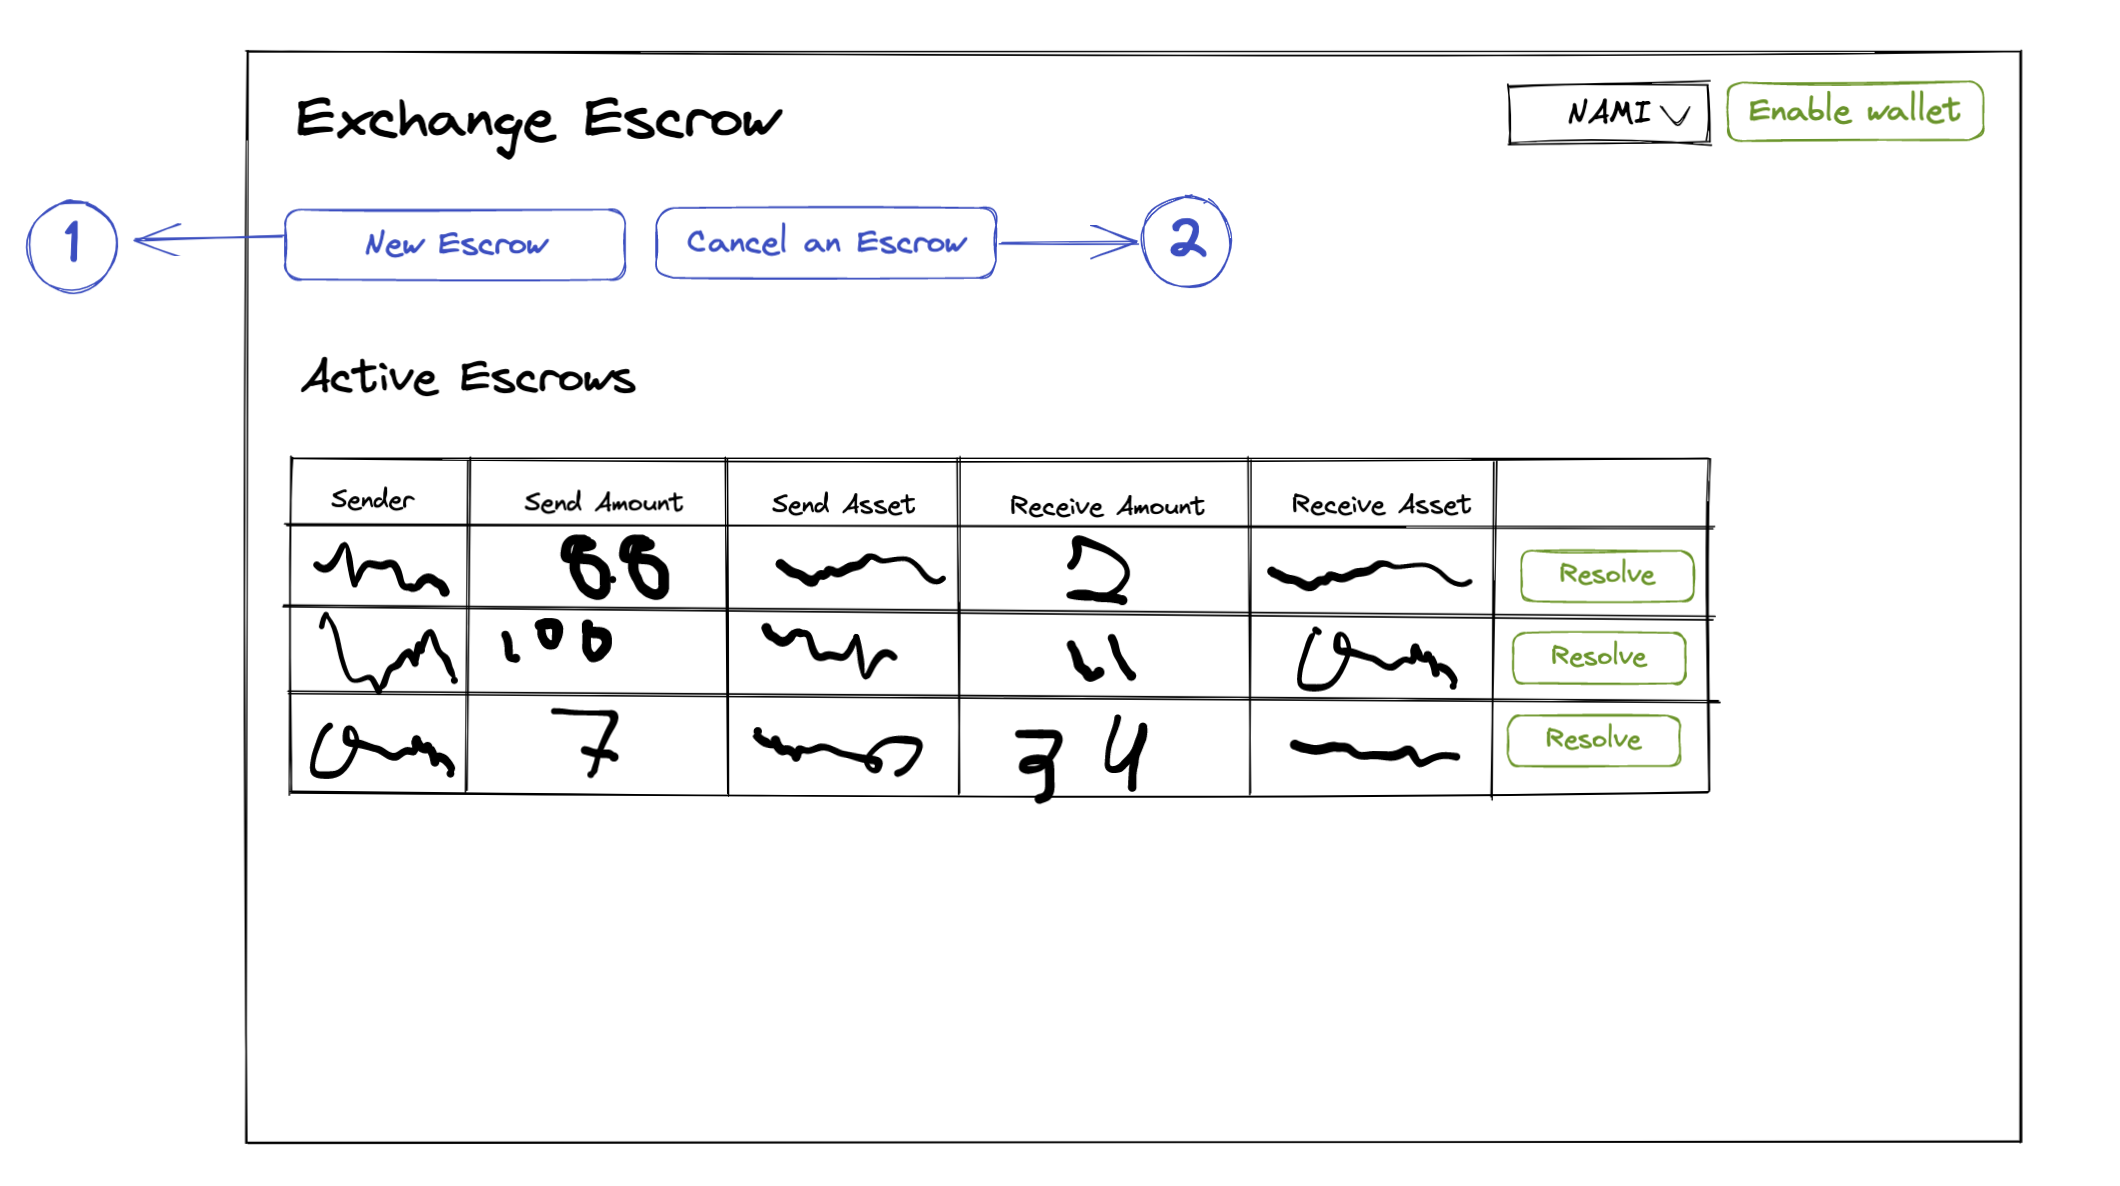
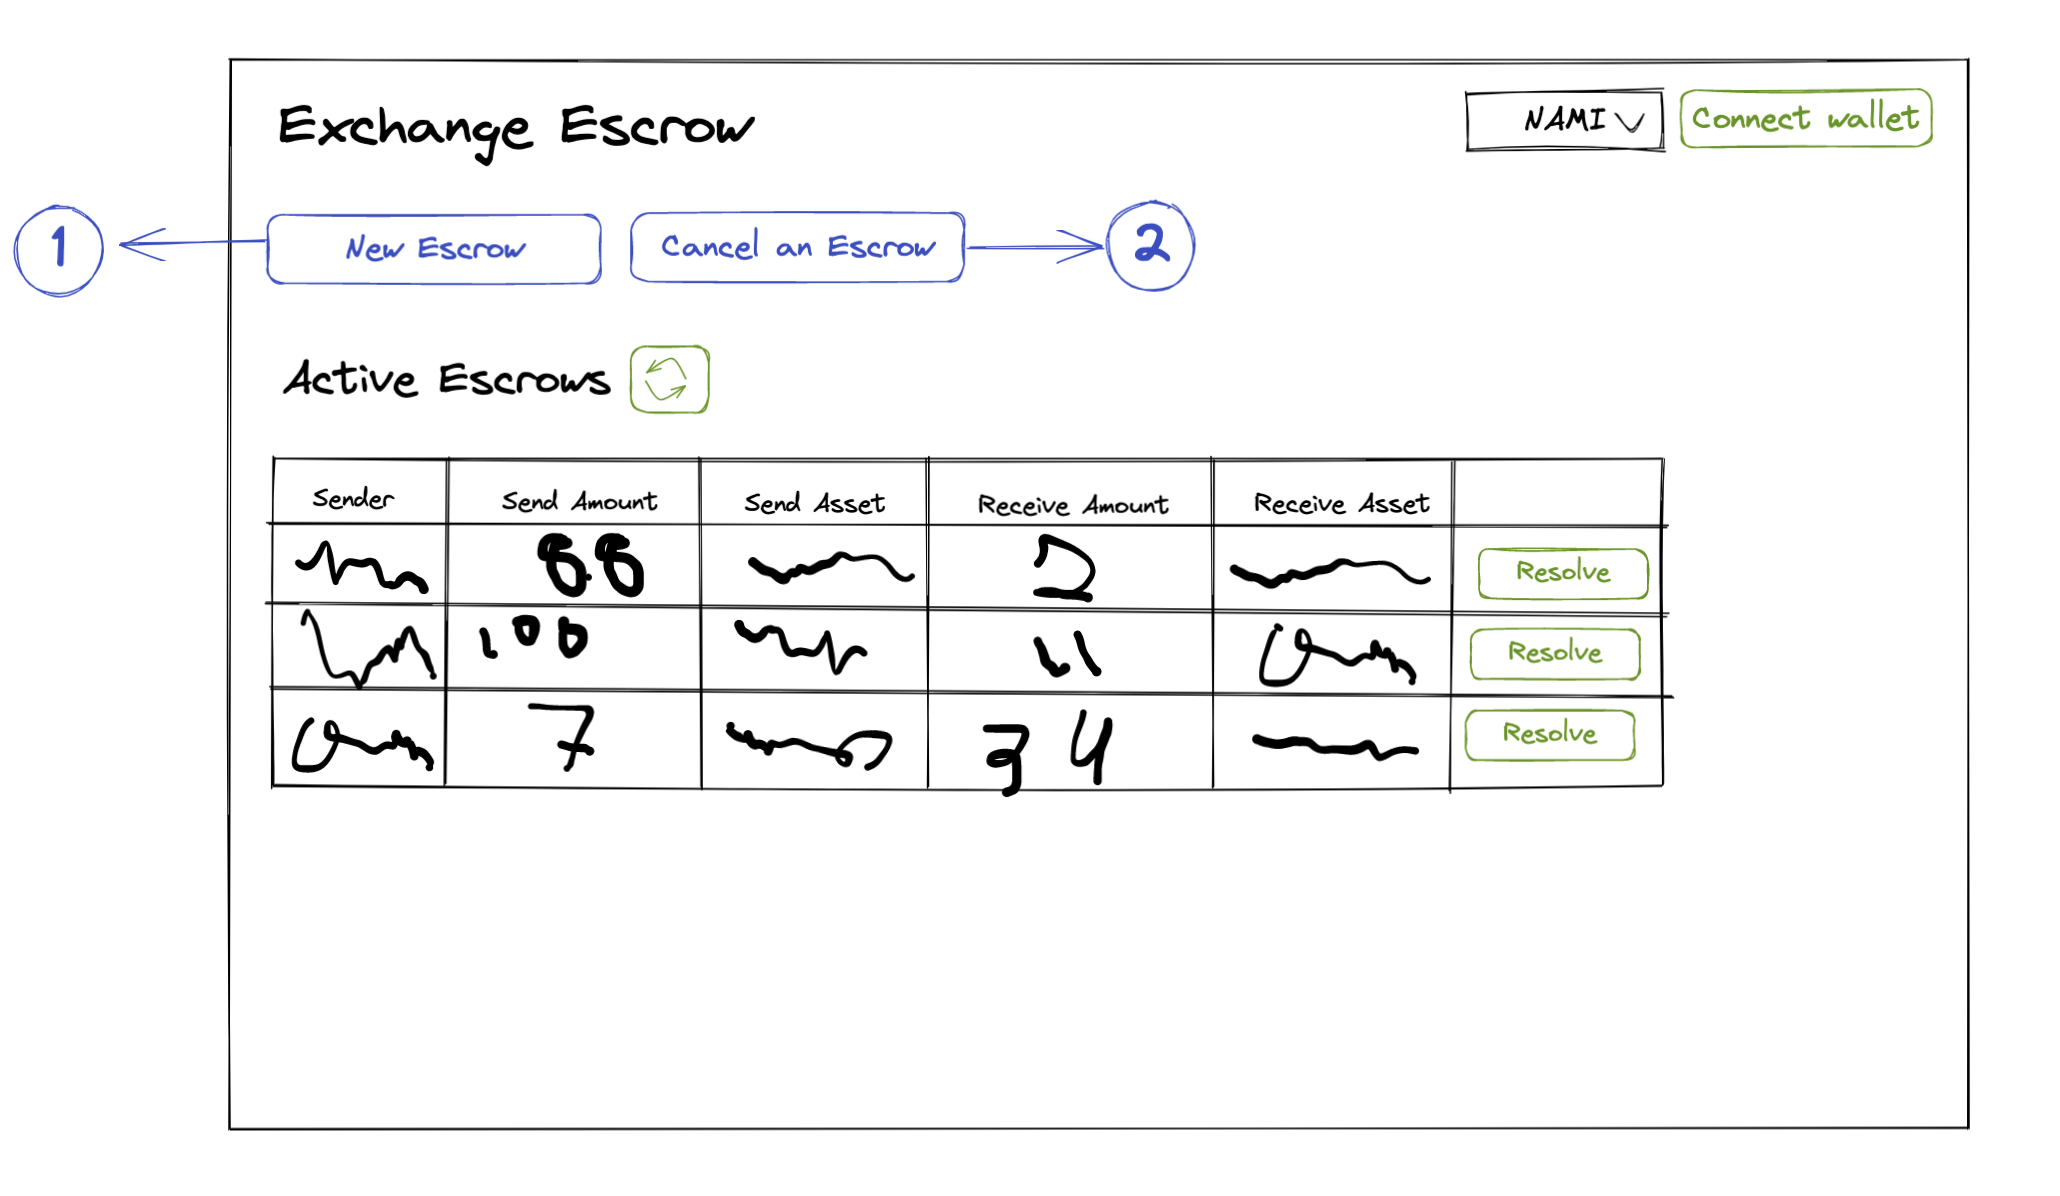
Changes frontend design document

Changed region(s): [[0.0, 0.0312, 0.9631, 0.8111], [0.0932, 0.5927, 0.9631, 0.9671]]

diff --git a/doc/frontend-design.md b/doc/frontend-design.md
@@ -5,8 +5,8 @@ In this document we share a quick mock-up for the UI/UX of the Exchange Escrow. 
 
 References:
 
-- The **rounded** rectangles are buttons.
-- The **dotted** rectangles are text fields where the user can input information.
+- The **Rounded** rectangles are buttons.
+- The **Dotted** rectangles are text fields where the user can input information.
 - The **Blue** colored buttons open a new window.
 - The **Green** colored buttons trigger OffChain functions in the backend.
 
@@ -15,20 +15,21 @@ References:
 
 ![main screen](img/mainScreen.png)
 
-This main screen allows the user to link their wallet and connect to the contract. Then they can either start a new escrow, and cancel or resolve an existing escrow.
+This main screen allows the user to connect their wallet to the contract. Then they can either start a new escrow, and cancel or resolve an existing escrow.
 
-Once a user connects their wallet to the contract, a list of escrows they can resolve will populate automatically. Each will have a resolve button that calls the Resolve operation in the Offchain.
+Once a user connects their wallet to the contract, a list of escrows they can resolve will populate automatically. There’s a **reload** button to update the table with the current escrows. This button calls the `reload` endpoint from the OffChain code. Each escrow has a **resolve** button that calls the `resolve` endpoint from the Offchain code. Once an escrow is resolved, it is removed from the table.
 
-To start or cancel, a pop-up screen will appear, described below.
+To start or cancel, a pop-up window appears, described below.
 
 ## Start
 
 ![start screen](img/startScreen.png)
 
-When the button **New Escrow** in the main screen is triggered, this window is opened. The user complete the white spaces with the start parameters and clicks the Start button. This button calls the endpoint start from the OffChain code in the backend.
+When the button **New Escrow** in the main screen is triggered, this window is opened. The user completes the text fields with the start parameters and clicks the **Start** button. This button calls the `start` endpoint from the OffChain code in the backend.
+After the **Start** button is clicked, the pop-up window is dismissed. The window can also be dismissed by clicking the **cross** button on the top right corner.
 
 ## Cancel
 
 ![cancel screen](img/cancelScreen.png)
 
-When the **Cancel Escrow** button in the main screen is triggered, this window is opened. When the user complete the white space with the receiver address and clicks the search button, the table is completed with all the information about escrows that the user has with the receiver address. Then the user clicks the **Cancel** button that triggers the cancel endpoint on the OffChain code.
+When the **Cancel Escrow** button in the main screen is triggered, this window is opened. When the user completes the text field with the receiver address and clicks the **search** button, the table is completed with all the information about escrows that the user has with the receiver address. Then the user clicks the **Cancel** button that triggers the `cancel` endpoint on the OffChain code. The window can be dismissed by clicking the **cross** button on the top right corner.
